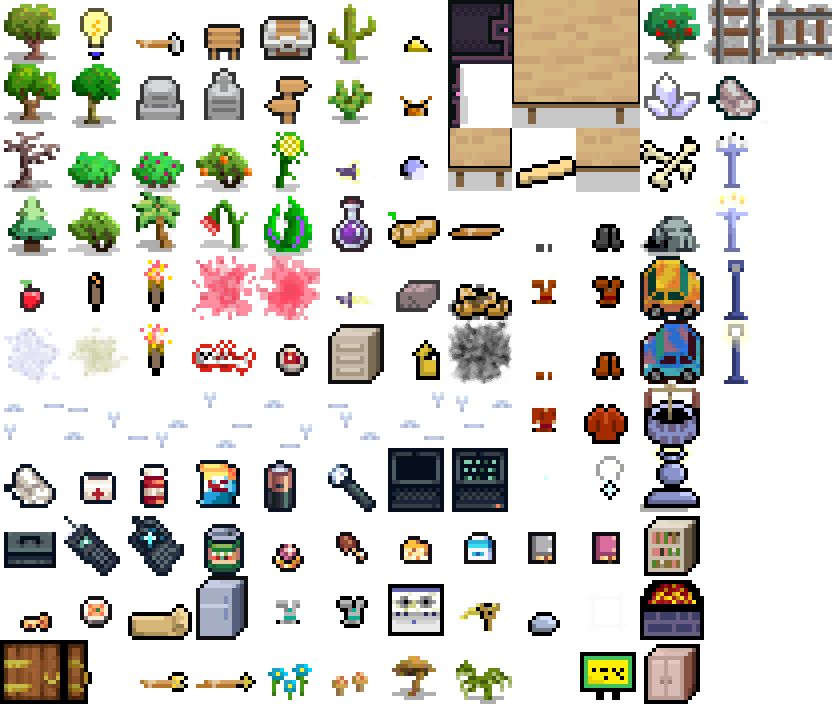
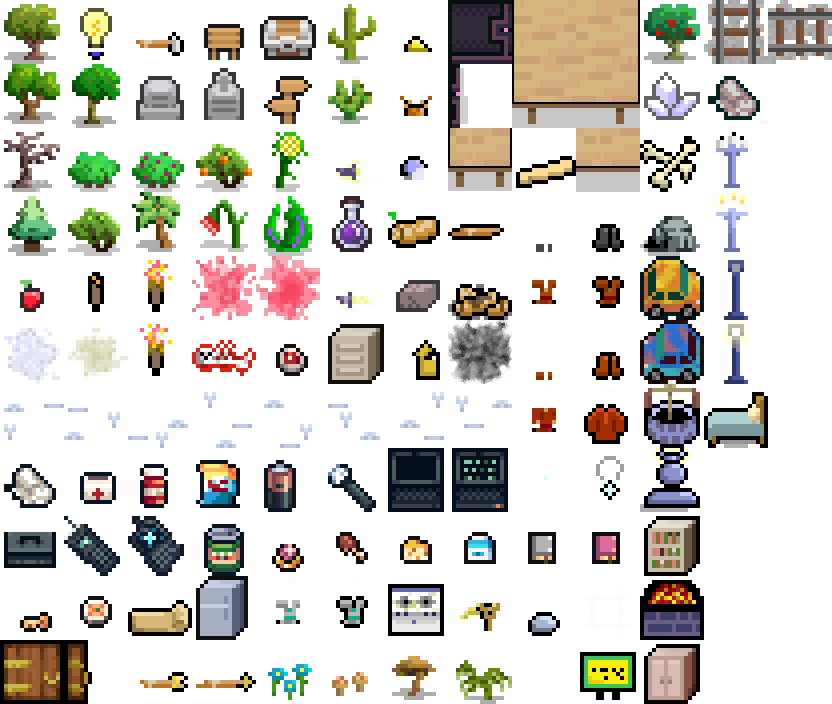
beds credits and tweaks

Changed region(s): [[0.8438, 0.5625, 0.9375, 0.6562], [0.1562, 0.8438, 0.25, 0.9062]]

diff --git a/src/main/kotlin/App.kt b/src/main/kotlin/App.kt
@@ -326,8 +326,8 @@ object App : KtxGame<com.badlogic.gdx.Screen>() {
                         "Escape!",
                         "For years I labored in chains for the evil wizard $wizardFullName.  Today it ends!  ${Madlib.escapeReason()}, I've slipped my magical bonds and can roam $wizardName's tower freely.  I must find a way out of here, and make my way to the wider world of Numeria in freedom.",
                         "Lords of Light, protect me.",
-                        true,
-                        true
+                        zoomIn = 1.3f,
+                        isJournal = true
                     )
                 )
                 player.tempInvisible = false
@@ -339,8 +339,8 @@ object App : KtxGame<com.badlogic.gdx.Screen>() {
                                 "into the swirling \nmagic, transporting me out of $wizardFullName's dungeons.\n  \n" +
                                 "With luck, I will meet her and my friend Ookla again soon.  But now I must make my way alone in Numeria.",
                         "Onward!",
-                        true,
-                        true,
+                        zoomIn = 1.3f,
+                        isJournal = true,
                         portrait = Glyph.PORTRAIT_ARIEL
                     )
                 )
@@ -452,7 +452,13 @@ object App : KtxGame<com.badlogic.gdx.Screen>() {
 
     fun openSettings() { Screen.addModal(SettingsModal()) }
     fun openControls() { Screen.addModal(ControlsModal()) }
-    fun openCredits() { Screen.addModal(CreditsModal()) }
+    fun openCredits() { Screen.addModal(BigSplashModal(
+        "ThUNdARR  the  BARBARIAN",
+        "a dlfsystems production\n\ncode and assets by gilmore606",
+        "Demon dogs!",
+        splashPosition = Modal.Position.CENTER_LOW,
+        zoomIn = 0.3f, isJournal = false, portrait = Glyph.PORTRAIT_GILMORE,
+    )) }
     fun openInventory(withContainer: Container? = null) { Screen.addModal(ThingsModal(player, withContainer)) }
     fun openGear() { Screen.addModal(GearModal(player)) }
     fun openSkills() { Screen.addModal(SkillsModal(player)) }

diff --git a/src/main/kotlin/world/gen/features/Village.kt b/src/main/kotlin/world/gen/features/Village.kt
@@ -297,11 +297,11 @@ class Village(
     }
 
     private fun layoutVillageBag(): MutableList<HutSpec> {
-        val hutCount = this.size + 1
+        val hutCount = this.size + 2
         val huts = mutableListOf<HutSpec>()
         var built = 0
-        var width = Dice.range(7, 11)
-        var height = Dice.range(7, 11)
+        var width = min(11, 7 + this.size)
+        var height = min(11, 7 + this.size)
         while (built < hutCount) {
             var tries = 0
             var placed = false
@@ -318,11 +318,14 @@ class Village(
                 }
                 tries++
             }
-            if ((width > 6 && height > 6) && ((placed && Dice.chance(0.5f)) || Dice.chance(0.2f))) {
-                if (Dice.chance(0.6f)) width -= 1
-                if (Dice.chance(0.6f)) height -= 1
+            if (width > 6 && height > 6) {
+                if ((placed && Dice.chance(0.4f)) || Dice.chance(0.1f)) {
+                    if (Dice.chance(0.6f)) width -= 1
+                    if (Dice.chance(0.6f)) height -= 1
+                }
+            } else {
+                built = hutCount
             }
-            if (width <= 6 || height <= 6) built = hutCount
         }
         return huts
     }

diff --git a/src/main/kotlin/things/GenericBed.kt b/src/main/kotlin/things/GenericBed.kt
@@ -4,21 +4,28 @@ import kotlinx.serialization.Serializable
 import render.tilesets.Glyph
 
 @Serializable
-sealed class Bed() : Thing() {
+sealed class GenericBed() : Thing() {
     override fun isPortable() = false
     override fun isOpaque() = false
-    override fun flammability() = 0.4f
+    override fun flammability() = 0.7f
     override fun sleepComfort() = 0.6f
 }
 
 @Serializable
-class Bedroll : Bed() {
+class Bed : GenericBed() {
+    override val tag = Tag.THING_BED
+    override fun glyph() = Glyph.BED
+    override fun name() = "bed"
+    override fun description() = "A simple twin bed with a rough woolen blanket."
+}
+
+@Serializable
+class Bedroll : GenericBed() {
     override val tag = Tag.THING_BEDROLL
     override fun glyph() = Glyph.BEDROLL
     override fun name() = "bedroll"
     override fun description() = "A light but sturdy cotton bedroll for traveling."
     override fun isPortable() = true
     override fun weight() = 1.5f
-    override fun flammability() = 0.7f
     override fun sleepComfort() = 0.4f
 }

diff --git a/src/main/kotlin/world/Director.kt b/src/main/kotlin/world/Director.kt
@@ -4,6 +4,8 @@ import actors.Actor
 import actors.NPC
 import actors.Player
 import actors.states.Hibernated
+import kotlinx.coroutines.launch
+import ktx.async.KtxAsync
 import things.Temporal
 import util.XY
 import util.distanceBetween
@@ -36,16 +38,16 @@ class Director(val level: Level) {
     }
 
     private fun addActor(new: Actor) {
-        actorsLocked = true
-        actors.add(new)
-        sortActors()
-        actorsLocked = false
+        KtxAsync.launch {
+            actors.add(new)
+            sortActors()
+        }
     }
     private fun removeActor(old: Actor) {
-        actorsLocked = true
-        actors.remove(old)
-        sortActors()
-        actorsLocked = false
+        KtxAsync.launch {
+            actors.remove(old)
+            sortActors()
+        }
     }
     private fun sortActors() {
         actors.sortBy { it.xy.y }

diff --git a/src/main/kotlin/actors/Player.kt b/src/main/kotlin/actors/Player.kt
@@ -262,7 +262,7 @@ open class Player : Actor(), Workbench {
         level?.thingsAt(xy.x, xy.y)?.forEach {
             if (!inBed) {
                 comfort += it.sleepComfort()
-                inBed = it is Bed
+                inBed = it is GenericBed
             }
         }
         if (!inBed) {
@@ -359,7 +359,7 @@ open class Player : Actor(), Workbench {
                 }
             }
             if (hasStatus(Status.Tag.ASLEEP)) {
-                level.thingsAt(xy.x, xy.y).firstOrNull { it is Bed }?.also {
+                level.thingsAt(xy.x, xy.y).firstOrNull { it is GenericBed }?.also {
                     if (temperature > 68) {
                         feltTemperature -= 5
                     } else if (temperature < 50) {

diff --git a/src/main/kotlin/ui/modals/BigSplashModal.kt b/src/main/kotlin/ui/modals/BigSplashModal.kt
@@ -18,10 +18,11 @@ class BigSplashModal(
     title: String,
     private val text: String,
     private val buttonLabel: String,
-    private val zoomIn: Boolean = false,
+    private val zoomIn: Float = 1f,
     private val isJournal: Boolean = false,
-    private val portrait: Glyph? = null
-) : Modal(400, 100, title){
+    private val portrait: Glyph? = null,
+    splashPosition: Modal.Position = Modal.Position.LEFT,
+) : Modal(400, 100, title, position = splashPosition){
 
     val portraitBatch = QuadBatch(Screen.portraitTileSet, maxQuads = 100)
 
@@ -37,7 +38,7 @@ class BigSplashModal(
     private var isHovered = false
 
     init {
-        zoomWhenOpen = 1.3f
+        zoomWhenOpen = zoomIn
         dismissible = false
     }
 

diff --git a/src/main/kotlin/world/gen/decors/VillageDecors.kt b/src/main/kotlin/world/gen/decors/VillageDecors.kt
@@ -25,7 +25,7 @@ class Hut : Decor() {
     override fun doFurnish() {
         val bedCount = max(1, min(3, (room.rect.area() / 12)))
         repeat (bedCount) {
-            againstWall { spawn(Bedroll()) { bedXY ->
+            againstWall { spawn(if (Dice.chance(0.9f)) Bed() else Bedroll()) { bedXY ->
                 bedLocations.add(bedXY)
             } }
         }
@@ -251,7 +251,7 @@ class Barracks(val vertical: Boolean) : Decor() {
     override fun description() = "A dormitory barracks."
     override fun doFurnish() {
         repeat (8) { awayFromWall {
-            spawn(Bedroll()) { bedXY ->
+            spawn(Bed()) { bedXY ->
                 bedLocations.add(bedXY)
             }
         }}

diff --git a/src/main/kotlin/render/Screen.kt b/src/main/kotlin/render/Screen.kt
@@ -264,7 +264,7 @@ object Screen : KtxScreen {
             tx, ty,
             actorBatch.getTextureIndex(glyph, App.level, tx, ty), vis, light,
             offsetX = if (vis == 1f) actor.animOffsetX() else 0f,
-            offsetY = if (vis == 1f) actor.animOffsetY() else 0f,
+            offsetY = if (vis == 1f) actor.animOffsetY() + (if (actor.rotateGlyph) -0.2f else 0f) else 0f,
             hue = actor.hue(),
             mirror = if (vis == 1f) actor.mirrorGlyph else false,
             rotate = if (vis == 1f) actor.rotateGlyph else false,

diff --git a/src/main/kotlin/ui/modals/MapModal.kt b/src/main/kotlin/ui/modals/MapModal.kt
@@ -132,7 +132,9 @@ class MapModal : Modal(Screen.width - RIGHT_PANEL_WIDTH - 150, Screen.height - 1
         if (isAnimating()) return
         val x0 = x + paddingX
         val y0 = y + paddingY
-        forXY(0,0, (1120/cellSize)-1, (800/cellSize)-1) { x,y ->
+        val mapW = width - paddingX * 2
+        val mapH = height - paddingY * 2
+        forXY(0,0, (mapW/cellSize)-1, (mapH/cellSize)-1) { x,y ->
             val meta = Metamap.metaAt(x+mapx, y+mapy)
             if (meta.mapped || revealAll) {
                 val ox = x * cellSize

diff --git a/src/main/kotlin/render/tilesets/PortraitTileSet.kt b/src/main/kotlin/render/tilesets/PortraitTileSet.kt
@@ -10,6 +10,7 @@ fun PortraitTileSet() =
         setTile(Glyph.PORTRAIT_THUNDARR, SimpleTile(this, 9, 0))
         setTile(Glyph.PORTRAIT_ARIEL, SimpleTile(this, 9, 1))
         setTile(Glyph.PORTRAIT_OOKLA, SimpleTile(this, 9, 2))
+        setTile(Glyph.PORTRAIT_GILMORE, SimpleTile(this, 9, 3))
 
         setTile(Glyph.PORTRAIT_PALE_M_1, SimpleTile(this, 0, 0))
         setTile(Glyph.PORTRAIT_PALE_M_2, SimpleTile(this, 0, 1))

diff --git a/src/main/kotlin/render/tilesets/Glyph.kt b/src/main/kotlin/render/tilesets/Glyph.kt
@@ -249,6 +249,7 @@ enum class Glyph(val tall: Boolean = false) {
     LAMPPOST_OFF,
     LAMPPOST_ON,
     STICK,
+    BED,
 
     BLOODSTAIN,
     SCORCHMARK,
@@ -333,6 +334,7 @@ enum class Glyph(val tall: Boolean = false) {
     PORTRAIT_THUNDARR,
     PORTRAIT_ARIEL,
     PORTRAIT_OOKLA,
+    PORTRAIT_GILMORE,
     PORTRAIT_PALE_M_1,
     PORTRAIT_PALE_M_2,
     PORTRAIT_PALE_M_3,

diff --git a/src/main/kotlin/things/Thing.kt b/src/main/kotlin/things/Thing.kt
@@ -145,6 +145,7 @@ sealed class Thing() : Entity {
         THING_LAMPPOST("lamppost", "lampposts", { Lamppost() }),
         THING_STICK("stick", "sticks", { Stick() }),
         THING_REBAR("rebar", "rebars", { Rebar() }),
+        THING_BED("bed", "beds", { Bed() }),
     }
 
     abstract val tag: Tag
